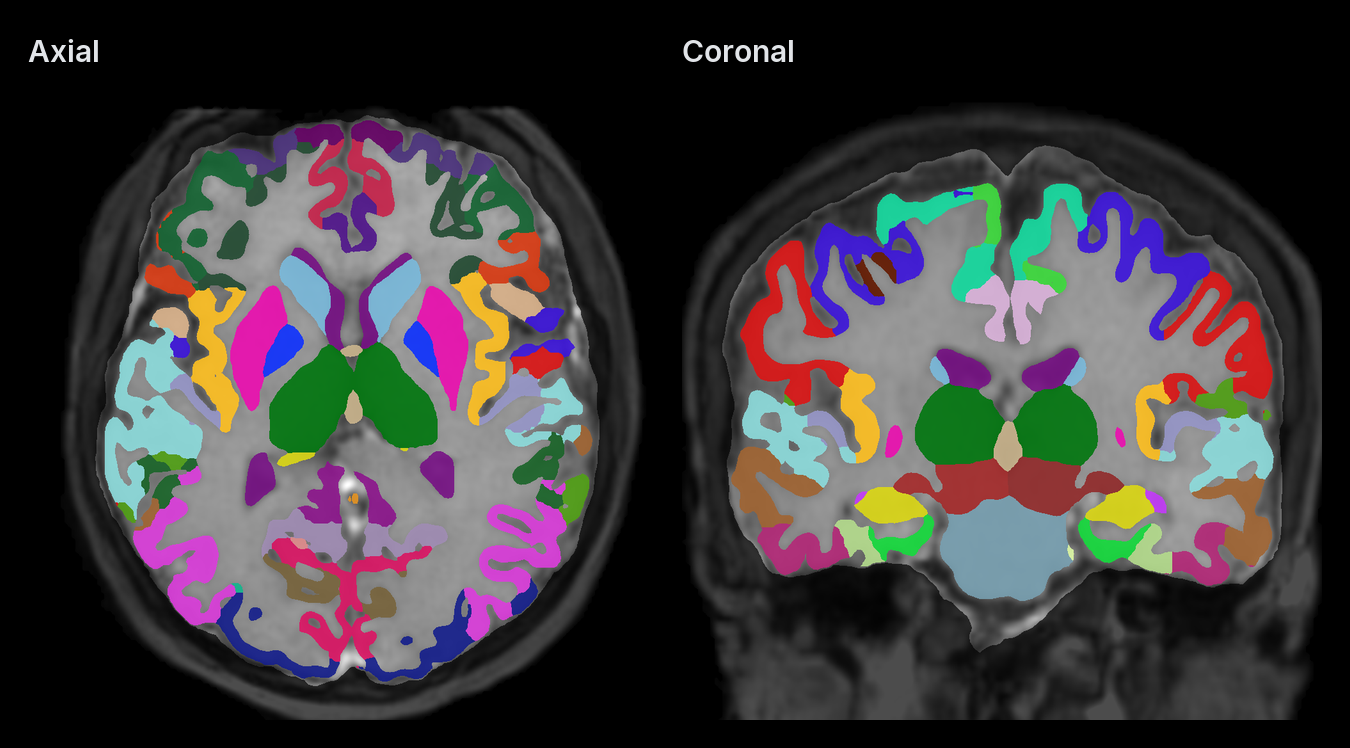
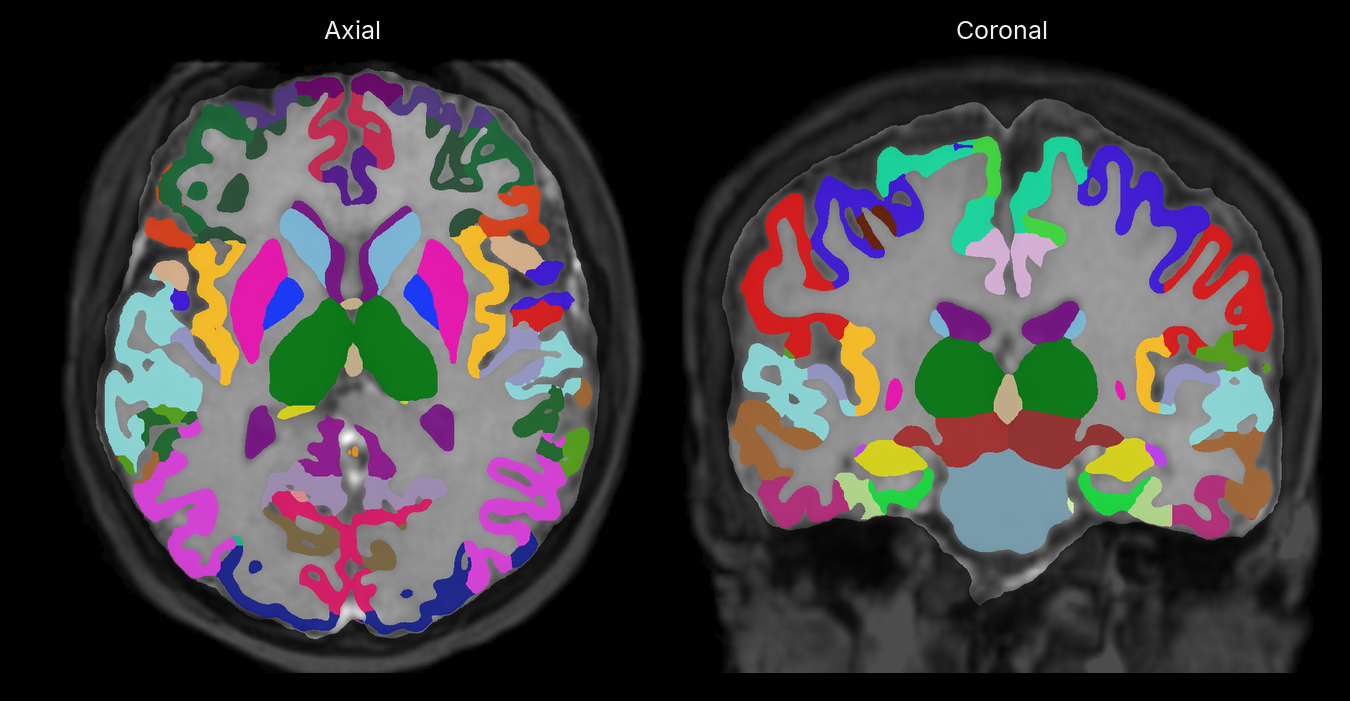
Relabel the README hero in Inter and load it from main
Titles and legend are redrawn in Inter Regular at a size proportional to the image width and centered over each panel. Image panels are unchanged.

diff --git a/README.md b/README.md
@@ -11,7 +11,7 @@ Segment brain MRI or CT with SynthSeg in native MLX. Includes cortical parcellat
 [![Hugging Face](https://img.shields.io/badge/%F0%9F%A4%97_Hugging_Face-weights-yellow)](https://huggingface.co/MedMLX/synthseg-mlx)
 [![MedMLX](https://img.shields.io/badge/MedMLX-runtime-A51C30)](https://github.com/MedMLX/medmlx)
 
-<img src="https://raw.githubusercontent.com/MedMLX/synthseg-mlx/v0.3.5/docs/example.png" alt="SynthSeg cortical parcellation in axial and coronal brain MRI" width="100%">
+<img src="https://raw.githubusercontent.com/MedMLX/synthseg-mlx/main/docs/example.png" alt="SynthSeg cortical parcellation in axial and coronal brain MRI" width="100%">
 
 </div>
 
